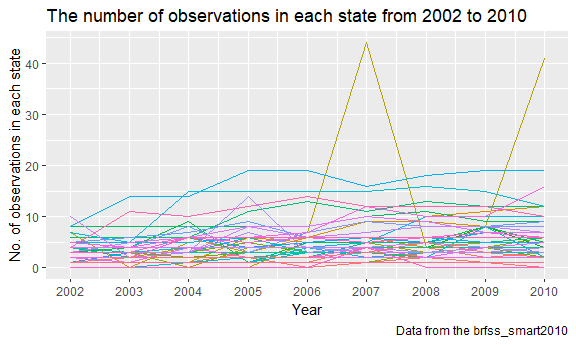
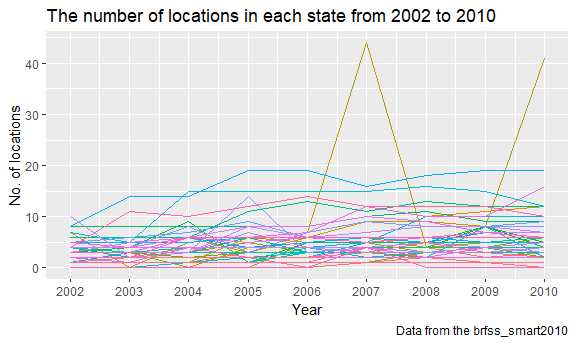
answer some questions for Problem3

diff --git a/p8105_hw3_hq2163_hanbo.md b/p8105_hw3_hq2163_hanbo.md
@@ -6,12 +6,11 @@ October 7, 2018
 Problem 1
 ---------
 
+Create an overall\_health dataset and focus on the “Overall Health” topic and organize responses as a factor taking levels from “Excellent” to “Poor”.
+======================================================================================================================================================
+
 ``` r
-#Use code "data(package = "p8105.datasets")" to find the name of target dataset and load it.
-
 data(brfss_smart2010)
-
-#Create an overall_health dataset and focus on the “Overall Health” topic and organize responses as a factor taking levels from “Excellent” to “Poor”.
 
 overall_health = janitor::clean_names(brfss_smart2010) %>% 
   filter(topic == "Overall Health") %>% 
@@ -21,33 +20,33 @@ overall_health = janitor::clean_names(brfss_smart2010) %>%
 In 2002, which states were observed at 7 locations?
 
 ``` r
-#Make a table with distinct location in 2002.
-dist_loc_02 = filter(overall_health, year == 2002) %>% 
-  distinct(locationabbr, locationdesc)
-
-#Make a table with distinct location in 2002.
-state_loc_7 = count(dist_loc_02, locationabbr) %>% 
-  filter(n == 7)
-state_loc_7$locationabbr
+#Make a table with distinct locations in 2002.
+filter(overall_health, year == 2002) %>% 
+  distinct(locationabbr, locationdesc) %>% 
+  count(locationabbr) %>% 
+  filter(n == 7) %>% 
+  knitr::kable(col.names = c("State", "No. of locations"))
 ```
 
-    ## [1] "CT" "FL" "NC"
+| State |  No. of locations|
+|:------|-----------------:|
+| CT    |                 7|
+| FL    |                 7|
+| NC    |                 7|
 
-In 2002, the states were observed at 7 locations is CT, FL, NC.
+The first column shows the states observed at 7 locations in 2002.
 
 Make a “spaghetti plot” that shows the number of observations in each state from 2002 to 2010.
 
 ``` r
-dist_loc = distinct(overall_health, year, locationabbr, locationdesc)
-
-dist_loc %>% 
+distinct(overall_health, year, locationabbr, locationdesc) %>% 
   ggplot(aes(x = year, color = locationabbr)) +
   geom_freqpoly(binwidth = 1) +
   scale_x_continuous(breaks = 2002:2010, limits = c(2002,2010)) +
   labs(
-    title = "The number of observations in each state from 2002 to 2010",
+    title = "The number of locations in each state from 2002 to 2010",
     x = "Year",
-    y = "No. of observations in each state",
+    y = "No. of locations",
     caption = "Data from the brfss_smart2010"
   ) +
   theme(legend.position="none")
@@ -55,7 +54,9 @@ dist_loc %>%
 
     ## Warning: Removed 102 rows containing missing values (geom_path).
 
-<img src="p8105_hw3_hq2163_hanbo_files/figure-markdown_github/unnamed-chunk-3-1.png" width="90%" /> The number of observations in State jumps to above 40 in 2007 and 2010. The number of observations all the other states kept under 20 for the rest of the years.
+<img src="p8105_hw3_hq2163_hanbo_files/figure-markdown_github/unnamed-chunk-3-1.png" width="90%" />
+
+The number of observations in State jumps to above 40 in 2007 and 2010. The number of observations all the other states kept under 20 for the rest of the years.
 
 The mean and standard deviation of the proportion of “Excellent” responses across locations in NY State in 2002, 2006, and 2010.
 
@@ -65,28 +66,26 @@ overall_health %>%
          response == "Excellent", 
          locationabbr == "NY") %>% 
   group_by(year) %>% 
-  summarise(excellent_mean = mean(data_value, na.rm = TRUE),
-            excellent_sd = sd(data_value, na.rm = TRUE))
+  summarise(mean = mean(data_value, na.rm = TRUE),
+            sd = sd(data_value, na.rm = TRUE)) %>% 
+  knitr::kable(col.names = c("Year", "Mean of excellent proportion(%)", "SD of excellent proportion(%)"),
+               digits = 2)
 ```
 
-    ## # A tibble: 3 x 3
-    ##    year excellent_mean excellent_sd
-    ##   <int>          <dbl>        <dbl>
-    ## 1  2002           24.0         4.49
-    ## 2  2006           22.5         4.00
-    ## 3  2010           22.7         3.57
+|  Year|  Mean of excellent proportion(%)|  SD of excellent proportion(%)|
+|-----:|--------------------------------:|------------------------------:|
+|  2002|                            24.04|                           4.49|
+|  2006|                            22.53|                           4.00|
+|  2010|                            22.70|                           3.57|
 
 The mean and standard deviation of the proportion of “Excellent” responses across locations in NY State in 2002 is 24% and 4.49%, in 2006 is 22.5% and 4%, in 2010 is 22.7% and 3.57%.
 
-each year and state, compute the average proportion and make a five-panel plot
+For each year and state, compute the average proportion and make a five-panel plot
 
 ``` r
-response_table = subset(overall_health, select = c(year:locationdesc, response, data_value)) %>% 
-  group_by(response, year, locationabbr)
-
-response_mean = summarise(response_table,
-                          mean = mean(data_value, na.rm = TRUE))
-response_mean %>%  
+select(overall_health, year, locationabbr, response, data_value) %>% 
+  group_by(response, year, locationabbr) %>% 
+  summarise(mean = mean(data_value, na.rm = TRUE)) %>%  
   ggplot(aes(x = year, y = mean, color = locationabbr)) +
   geom_line() +
   facet_grid(response ~., scales = "free_y")+
@@ -195,3 +194,75 @@ apple_icecream = filter(instacart, product_name %in% c("Pink Lady Apples", "Coff
   summarise(mean = round(mean(order_hour_of_day), 0)) %>% 
   spread(key = order_dow, value = mean )
 ```
+
+Problem 3
+---------
+
+``` r
+# load the data from the p8105.datasets package and summarize the data
+data(ny_noaa)
+
+summary(ny_noaa)
+```
+
+    ##       id                 date                 prcp         
+    ##  Length:2595176     Min.   :1981-01-01   Min.   :    0.00  
+    ##  Class :character   1st Qu.:1988-11-29   1st Qu.:    0.00  
+    ##  Mode  :character   Median :1997-01-21   Median :    0.00  
+    ##                     Mean   :1997-01-01   Mean   :   29.82  
+    ##                     3rd Qu.:2005-09-01   3rd Qu.:   23.00  
+    ##                     Max.   :2010-12-31   Max.   :22860.00  
+    ##                                          NA's   :145838    
+    ##       snow             snwd            tmax               tmin          
+    ##  Min.   :  -13    Min.   :   0.0   Length:2595176     Length:2595176    
+    ##  1st Qu.:    0    1st Qu.:   0.0   Class :character   Class :character  
+    ##  Median :    0    Median :   0.0   Mode  :character   Mode  :character  
+    ##  Mean   :    5    Mean   :  37.3                                        
+    ##  3rd Qu.:    0    3rd Qu.:   0.0                                        
+    ##  Max.   :10160    Max.   :9195.0                                        
+    ##  NA's   :381221   NA's   :591786
+
+A short description of the dataset: ny\_noaa provides some weather data in NY city, including the GHCN -Daily database of summary statistics from weather stations. The dataset contains 2595176 observations and 7 variables, where each row in the dataset is daily record of weather during 1981-2010. Key variables includes 1."date" is Date of observation 2."prcp" which represents Precipitation (tenths of mm) recorded by the weather station on a specific day 3."snow" which represents Snowfall (mm) recorded by the weather station on a specific day 4."snwd": which represents Snow depth (mm) recorded by the weather station on a specific day 5."tmax" which represents the maximum temperature (tenths of degrees C) recorded by the weather station on a specific day 6."tmin" which represents the Minimum temperature (tenths of degrees C) recorded by the weather station on a specific day. There are missing data in variables: "prcp"(145838 NA), "snow"(381221 NA), "snwd"(591786 NA) and ."tmax","tmin". Each weather station collect only a subset of these variables, and therefore the resulting dataset contains extensive missing data which might influence the result.
+
+Do some data cleaning and create separate variables for year, month, and day.
+
+Convert observations for temperature, precipitation, and snowfall.
+
+``` r
+ny_noaa_ymd = separate(ny_noaa, date, into = c("year", "month", "day"), sep = "-") %>% 
+    mutate(prcp = prcp / 10, tmin = as.numeric(tmin) / 10, tmax = as.numeric(tmax) / 10)
+```
+
+For snowfall, what are the most commonly observed values? Why?
+
+``` r
+snowfall_daycount = count(ny_noaa, snow, sort = T)
+snowfall_daycount[1,1]
+```
+
+    ## # A tibble: 1 x 1
+    ##    snow
+    ##   <int>
+    ## 1     0
+
+Make a two-panel plot showing the average temperature in January and in July in each station across years. Is there any observable / interpretable structure? Any outliers?
+
+``` r
+temp_jan_jul = filter(ny_noaa_ymd, month %in% c("01","07")) %>% 
+  group_by(id, year, month) %>% 
+  summarise(mean_tmax = mean(tmax, na.rm = T)) %>%
+  ungroup() %>% 
+  mutate(month = recode(month, "01" = "Jan", "07" = "Jul"))
+
+ggplot(temp_jan_jul, aes(x = year, y = mean_tmax,fill = year)) +
+  geom_violin(color = "blue", alpha = 0.5) +
+  stat_summary(fun.y = median, geom = "point", color = "blue", size = 1) +
+  facet_grid(month ~., scales = "free_y") +
+  theme(legend.position = "none")
+```
+
+    ## Warning: Removed 5970 rows containing non-finite values (stat_ydensity).
+
+    ## Warning: Removed 5970 rows containing non-finite values (stat_summary).
+
+<img src="p8105_hw3_hq2163_hanbo_files/figure-markdown_github/unnamed-chunk-13-1.png" width="90%" />

diff --git a/README.md b/README.md
@@ -11,3 +11,10 @@ Problem 2
 1.load the data from the p8105.datasets package and summarize the data
 2.answer some questions.
 3.make plots and table.
+
+Promblem 3
+
+1.load the data from the p8105.datasets package and summarize the data
+2.Do some data cleaning and create separate variables for year, month, and day.
+2.answer some questions.
+3.make plots.
